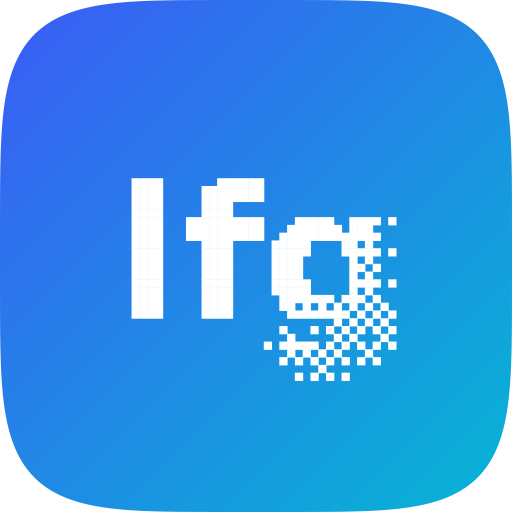
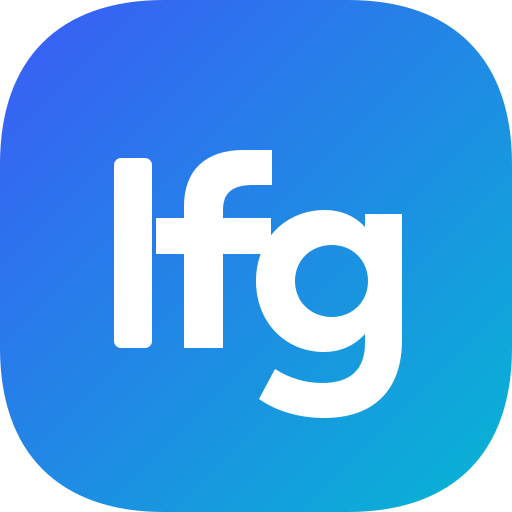
fix(web): make the LFG mark true vector, and adopt updates on resume
Two things kept the header mark soft, and removing the blur layer in
cc397ac only fixed one of them.

The artwork is a bitmap. icon.svg has been ~680 8.28px <rect>s on a 7.7778
pitch since fb96582 (Jun 21) — a 34x26 pixel image in SVG clothing. The
glyph covers ~48% of the 512 viewBox, so in the header's 24px box it gets
~11.7px for 32 source pixels: 0.36px each, under one device pixel even at
DPR 3. Every stroke is averaged into the background and lands grey instead
of white. A live DOM probe confirms no filtered ancestor remains, so this
is now the only cause left.

Restore the true vector letterforms from fdb11ad (reverted an hour later by
1935b26 for losing the pixel-dissolve identity). Same wordmark, same
gradient; outlines rasterize against the device grid at any size. The small
variant needs no separate artwork now, so generate-icons.ts copies when the
source carries no #full/#mini variants and still isolates them when it does.

Also adopt a waiting worker on resume. An installed PWA is suspended, not
closed, so it can run one shell across many deploys while the toast sits in
a session nobody is looking at — the server serves new bytes and the device
never sees them. Resume is safe: the app was backgrounded, so there is no
in-flight input worth more than being current. The foreground path still
only asks.

diff --git a/test/icons.test.ts b/test/icons.test.ts
@@ -3,22 +3,37 @@ import { readFile } from "node:fs/promises";
 import sharp from "sharp";
 
 describe("LFG icon assets", () => {
-  test("keeps the original responsive pixel-dissolve vector artwork", async () => {
+  // The mark must be real outlines, not a bitmap. It shipped for five weeks as
+  // a grid of ~680 8.28px <rect>s — a 34x26 pixel image in SVG clothing. The
+  // header draws it in a 24px box where the glyph gets ~11.7px for 32 source
+  // pixels: 0.36px each, well under one device pixel even at DPR 3, so every
+  // stroke was averaged into the background and came out grey instead of white.
+  // Outlines rasterize against the actual device grid, so they stay crisp.
+  // A handful of <rect>/<path> is normal artwork; hundreds means a pixel grid.
+  test("keeps the LFG mark as true vector letterforms, never a bitmap", async () => {
     const source = await readFile("web/public/icon.svg", "utf8");
     expect(source).toContain('viewBox="0 0 512 512"');
-    expect(source).toContain("@media (max-width:40px)");
-    expect(source).toContain('id="full"');
-    expect(source).toContain('id="mini"');
     expect(source).not.toContain("<image");
+
+    const rects = source.match(/<rect/g)?.length ?? 0;
+    expect(rects).toBeLessThan(12);
+
+    // A traced bitmap also hides as one path of hundreds of L commands.
+    for (const [, d] of source.matchAll(/\sd="([^"]+)"/g)) {
+      expect((d.match(/L/g)?.length ?? 0)).toBeLessThan(60);
+    }
   });
 
-  test("ships an explicit crisp variant for small UI placements", async () => {
+  test("ships the small placement variant as the same crisp vector", async () => {
     const source = await readFile("web/public/icon-small.svg", "utf8");
     expect(source).toContain('viewBox="0 0 512 512"');
-    expect(source).toContain('id="mark"');
+    expect(source).not.toContain("<image");
+    expect((source.match(/<rect/g)?.length ?? 0)).toBeLessThan(12);
+
+    // Vector needs no size-specific artwork: no variants, no @media swap.
     expect(source).not.toContain("@media");
     expect(source).not.toContain('id="full"');
-    expect(source).not.toContain("<image");
+    expect(source).not.toContain('id="mini"');
 
     for (const path of [
       "web/src/App.tsx",
@@ -41,6 +56,18 @@ describe("LFG icon assets", () => {
     expect(worker).toContain("lfg-cache-reset-crisp-icon-v1");
     expect(worker).toContain("await self.skipWaiting()");
     expect(worker).toContain("keys.includes(CRISP_ICON_CACHE_RESET)");
+  });
+
+  // A suspended PWA can run one shell across many deploys, so a waiting worker
+  // must be adopted on resume rather than left behind a toast nobody taps.
+  test("adopts a waiting worker when the app is resumed", async () => {
+    const main = await readFile("web/src/main.tsx", "utf8");
+    expect(main).toContain("adoptPendingUpdate");
+    expect(main).toMatch(
+      /visibilitychange[\s\S]{0,220}adoptPendingUpdate\(\)/,
+    );
+    // Still only ever asks while the app is in the foreground.
+    expect(main).toContain("promptUpdate");
   });
 
   test("ships each generated PNG at its declared size", async () => {

diff --git a/scripts/generate-icons.ts b/scripts/generate-icons.ts
@@ -19,18 +19,35 @@ async function render(
   await image.png().toFile(resolve(root, output));
 }
 
+// icon-small.svg is what every small UI placement loads (see icon-assets.ts).
+//
+// It exists because the mark used to be a bitmap — a grid of ~8px <rect>s — and
+// a bitmap has to be redrawn coarser to survive a 24px box. That artwork shipped
+// two variants in one file, #full and #mini, swapped by an inline @media query,
+// and this step sliced #mini out.
+//
+// The mark is true vector letterforms now, so there is nothing to slice: real
+// outlines rasterize crisply at any size and the small file is just a copy. The
+// separate route stays so the app keeps one stable URL to cache-bust, and so
+// re-introducing a size-specific variant later is a change here and nowhere
+// else. If the source ever carries variants again, isolate them; otherwise copy.
 async function generateSmallIcon(): Promise<void> {
   const source = await readFile(resolve(webPublic, "icon.svg"), "utf8");
+
+  const hasSizeVariants =
+    source.includes('id="full"') && source.includes('id="mini"');
+
+  if (!hasSizeVariants) {
+    await writeFile(resolve(webPublic, "icon-small.svg"), source);
+    return;
+  }
+
   const small = source
     .replace(/<style>[\s\S]*?<\/style>/, "")
     .replace(/<g id="full"[\s\S]*?<\/g>/, "")
     .replace('id="mini"', 'id="mark"');
 
-  if (
-    small === source ||
-    small.includes('id="full"') ||
-    small.includes("@media")
-  ) {
+  if (small.includes('id="full"') || small.includes("@media")) {
     throw new Error("Could not isolate the small LFG icon artwork");
   }
 

diff --git a/web/src/main.tsx b/web/src/main.tsx
@@ -121,8 +121,29 @@ async function registerServiceWorker() {
       reg.update().catch(() => {});
     };
     setInterval(check, 60_000);
+
+    // Adopt a pending update when the app is resumed from the background.
+    //
+    // The toast alone was not enough. An installed PWA — iOS especially — is
+    // suspended rather than closed, so it can run the same shell for days: the
+    // worker installs, waits, and the toast sits in a session the user is not
+    // looking at, gets swiped away with the app, or is simply missed. The result
+    // is a device pinned to an old build across many deploys while the server is
+    // serving something newer, which reads as "my changes never shipped".
+    //
+    // Resume is the safe moment to take it: the app was backgrounded, so there
+    // is no in-flight typing or scroll position worth more than being current,
+    // and reloading here is the behaviour a native app update already has. While
+    // the app is in the foreground we still only ever ask, never interrupt.
+    const adoptPendingUpdate = () => {
+      if (reg.waiting && navigator.serviceWorker.controller) {
+        activateUpdate(reg.waiting);
+      }
+    };
+
     document.addEventListener("visibilitychange", () => {
       if (document.visibilityState !== "visible") return;
+      adoptPendingUpdate();
       check();
     });
     window.addEventListener("focus", check);

diff --git a/web/src/lib/icon-assets.ts b/web/src/lib/icon-assets.ts
@@ -1,4 +1,4 @@
 // Bump this URL whenever the small mark changes. The query is intentionally
 // immutable on the server, so Safari, an installed PWA, and the service worker
 // all agree that different artwork has a different cache key.
-export const LFG_SMALL_ICON_PATH = "/icon-small.svg?v=20260730-crisp-2";
+export const LFG_SMALL_ICON_PATH = "/icon-small.svg?v=20260731-vector";
